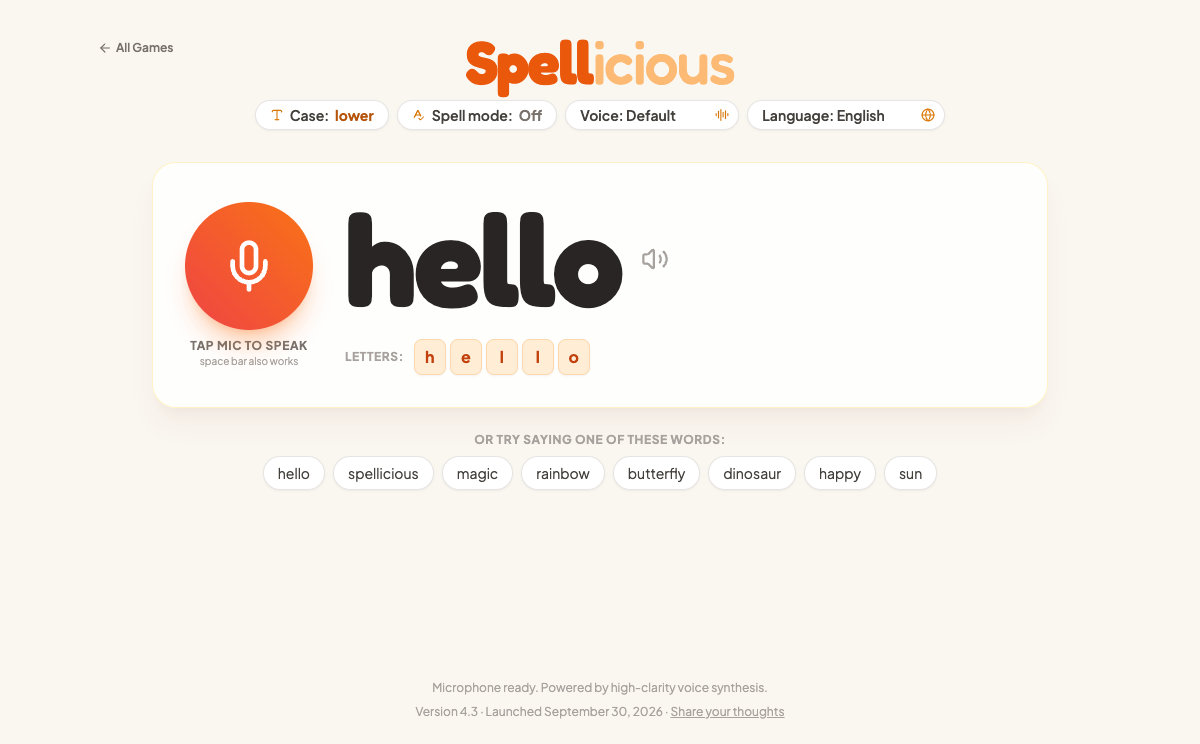
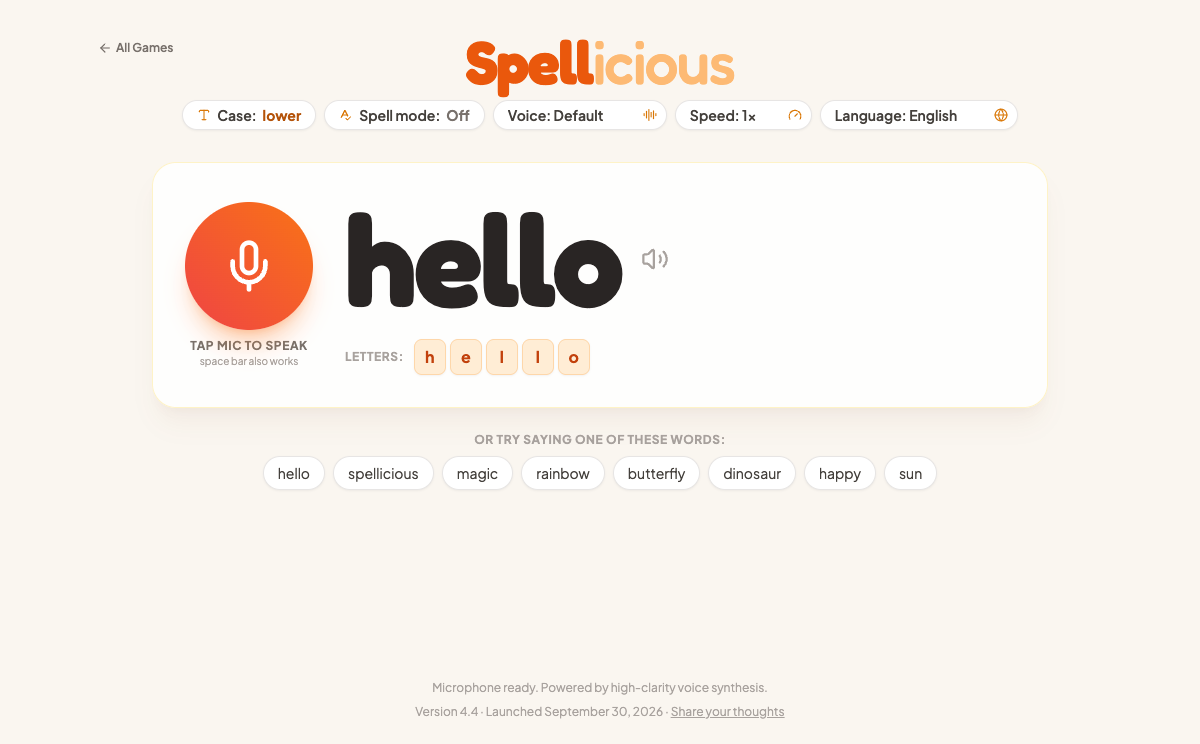
Add speech speed selector

Changed region(s): [[0.185, 0.1237, 0.8017, 0.1855]]

diff --git a/spellicious/index.html b/spellicious/index.html
@@ -93,6 +93,22 @@
                     <i data-lucide="audio-lines" class="w-3.5 h-3.5 text-amber-600 absolute right-2.5 top-1/2 -translate-y-1/2 pointer-events-none"></i>
                 </div>
 
+                <!-- Speech Speed Selector -->
+                <div class="relative inline-block">
+                    <select id="speedSelect" onchange="onSpeedChange()" class="appearance-none bg-white px-3.5 py-1 pr-7 rounded-full border border-stone-200 shadow-sm text-xs sm:text-sm font-semibold text-stone-700 hover:border-amber-400 focus:outline-none focus:ring-2 focus:ring-amber-500 cursor-pointer">
+                        <option value="0.5">Speed: 0.5x</option>
+                        <option value="0.75">Speed: 0.75x</option>
+                        <option value="1" selected>Speed: 1x</option>
+                        <option value="1.5">Speed: 1.5x</option>
+                        <option value="2">Speed: 2x</option>
+                        <option value="3">Speed: 3x</option>
+                        <option value="4">Speed: 4x</option>
+                        <option value="5">Speed: 5x</option>
+                        <option value="10">Speed: 10x</option>
+                    </select>
+                    <i data-lucide="gauge" class="w-3.5 h-3.5 text-amber-600 absolute right-2.5 top-1/2 -translate-y-1/2 pointer-events-none"></i>
+                </div>
+
                 <!-- Language Selector Dropdown -->
                 <div class="relative inline-block">
                     <select id="langSelect" onchange="onLanguageChange()" class="appearance-none bg-white px-3.5 py-1 pr-7 rounded-full border border-stone-200 shadow-sm text-xs sm:text-sm font-semibold text-stone-700 hover:border-amber-400 focus:outline-none focus:ring-2 focus:ring-amber-500 cursor-pointer">
@@ -175,7 +191,7 @@
     <!-- Footer Status -->
     <footer class="w-full max-w-4xl mx-auto mt-auto text-center text-xs text-stone-400 pt-4">
         <p id="statusText">Microphone ready. Powered by high-clarity voice synthesis.</p>
-        <p class="mt-2">Version 4.3 · Launched <time datetime="2026-09-30">September 30, 2026</time> · <a class="underline" href="../feedback/?game=spellicious&amp;v=4.3">Share your thoughts</a></p>
+        <p class="mt-2">Version 4.4 · Launched <time datetime="2026-09-30">September 30, 2026</time> · <a class="underline" href="../feedback/?game=spellicious&amp;v=4.4">Share your thoughts</a></p>
     </footer>
 
     <script>
@@ -183,6 +199,7 @@
         let currentWord = "hello";
         let currentLang = "en-US";
         let currentVoiceStyle = "default";
+        let speechSpeed = 1;
         let isCaseUpper = false;
         let isSpellMode = false;
         let isListening = false;
@@ -532,7 +549,7 @@
 
         function applyVoiceStyle(utterance) {
             const style = voiceStyles[currentVoiceStyle] || voiceStyles.default;
-            utterance.rate = style.rate;
+            utterance.rate = Math.min(10, style.rate * speechSpeed);
             utterance.pitch = style.pitch;
             utterance.volume = style.volume;
         }
@@ -547,6 +564,11 @@
 
         function onVoiceStyleChange() {
             currentVoiceStyle = document.getElementById('voiceStyleSelect').value;
+            speakCurrentText();
+        }
+
+        function onSpeedChange() {
+            speechSpeed = Number(document.getElementById('speedSelect').value) || 1;
             speakCurrentText();
         }
 

diff --git a/index.html b/index.html
@@ -137,11 +137,11 @@ footer { border-top: 1px solid var(--line); padding-top: 20px; color: var(--ink-
       </div>
     </article>
     <article class="game">
-      <a class="cover" href="spellicious/?v=4.3&amp;refresh=20260930-5" aria-label="Play Spellicious"><img src="spellicious/cover.png?v=4.3&amp;refresh=20260930-5" alt="A warm, cream-colored Spellicious game with a microphone and giant letters" width="1200" height="744"></a>
+      <a class="cover" href="spellicious/?v=4.4&amp;refresh=20260930-6" aria-label="Play Spellicious"><img src="spellicious/cover.png?v=4.4&amp;refresh=20260930-6" alt="A warm, cream-colored Spellicious game with a microphone and giant letters" width="1200" height="744"></a>
       <div class="info">
         <h2>Spellicious</h2>
-        <p class="version"><b>Version 4.3</b> · Launched <time datetime="2026-09-30">September 30, 2026</time></p>
-        <p>Say a word and see it appear in giant letters. The spoken word highlights in orange, and Spell mode highlights each letter or number as it is spoken. Numbers like 10 say “ten,” while 111 says “one one one.” Choose Default, Robot, Chipmunk, Storyteller, or Slow Motion voices. Tap the mic or press the space bar to start or interrupt speech.</p>
+        <p class="version"><b>Version 4.4</b> · Launched <time datetime="2026-09-30">September 30, 2026</time></p>
+        <p>Say a word and see it appear in giant letters. The spoken word highlights in orange, and Spell mode highlights each letter or number as it is spoken. Numbers like 10 say “ten,” while 111 says “one one one.” Choose Default, Robot, Chipmunk, Storyteller, or Slow Motion voices, plus speeds from 0.5x to 10x. Tap the mic or press the space bar to start or interrupt speech.</p>
         <ul class="tags">
           <li>Phonics</li><li>Reading</li><li>Speech</li><li>Syllables</li>
         </ul>
@@ -150,7 +150,7 @@ footer { border-top: 1px solid var(--line); padding-top: 20px; color: var(--ink-
           <li><b>Progress</b> nothing saved — just say a word</li>
           <li><b>Sound</b> on (mic and spoken words)</li>
         </ul>
-        <a class="play" href="spellicious/?v=4.3&amp;refresh=20260930-5">Play
+        <a class="play" href="spellicious/?v=4.4&amp;refresh=20260930-6">Play
           <svg viewBox="0 0 24 24" fill="currentColor" aria-hidden="true"><path d="M7 4.5v15a1 1 0 0 0 1.5.86l12.5-7.5a1 1 0 0 0 0-1.72L8.5 3.64A1 1 0 0 0 7 4.5Z"/></svg>
         </a>
       </div>

diff --git a/versions/index.html b/versions/index.html
@@ -42,6 +42,7 @@
   <h2>Spellicious</h2>
   <table>
     <tr><th>Version</th><th>Released</th><th>What was in it</th></tr>
+    <tr><td><a href="spellicious/4.4/">4.4 — Speech speed control</a></td><td>Sep 30, 2026</td><td>Adds a compact Speed selector with 0.5x, 0.75x, 1x, 1.5x, 2x, 3x, 4x, 5x, and 10x options.</td></tr>
     <tr><td><a href="spellicious/4.3/">4.3 — Reliable spacebar mic</a></td><td>Sep 30, 2026</td><td>Space now overrides selector/button focus, stops speech and highlights, and opens the microphone regardless of the selected settings.</td></tr>
     <tr><td><a href="spellicious/4.2/">4.2 — Full display highlighting</a></td><td>Sep 30, 2026</td><td>Synchronizes the large display with the lower tiles: spoken letters, numbers, and words now change color in both places.</td></tr>
     <tr><td><a href="spellicious/4.1/">4.1 — Phrase highlighting</a></td><td>Sep 30, 2026</td><td>Highlights each letter or number tile during spelling and highlights each word separately when speaking a phrase.</td></tr>

diff --git a/spellicious/HANDOFF.md b/spellicious/HANDOFF.md
@@ -1,8 +1,9 @@
 # Spellicious — Handoff Note
 
-## Update — Version 4.3
+## Update — Version 4.4
 
-- **Live:** Spellicious 4.3 is the current game at /spellicious/.
+- **Live:** Spellicious 4.4 is the current game at /spellicious/.
+- **Speed:** A compact selector offers 0.5x, 0.75x, 1x, 1.5x, 2x, 3x, 4x, 5x, and 10x speech speed; 1x is the default.
 - **Spacebar:** Space overrides selector/button focus, cancels speech and highlights, and opens the microphone regardless of settings.
 - **Highlighting:** Spell mode highlights each letter/number in both the large display and lower tiles; regular multi-word phrases highlight one large word at a time.
 - **Numbers:** Short numbers speak naturally (10 becomes “ten”); longer digit strings remain isolated.
@@ -35,9 +36,9 @@
 - Current page: spellicious/index.html
 - Current URL: https://magicmakersfamily.github.io/games/spellicious/
 - Compatibility redirect: speller/index.html → ../spellicious/
-- Current version: 4.3
+- Current version: 4.4
 - Launch date: 2026-09-30
-- Release tag: spellicious-v4.3
-- Frozen archive: versions/spellicious/4.3/
+- Release tag: spellicious-v4.4
+- Frozen archive: versions/spellicious/4.4/
 
 Before future releases, update the shelf card, README table, feedback game map, versions/index.html, and the frozen release archive. Render spellicious/cover.png, run a browser smoke check, commit, tag, push, and verify the public URL.

diff --git a/README.md b/README.md
@@ -42,7 +42,7 @@ tools/              freeze-version.sh: freeze a tagged release into versions/
 | James’s Nature Aquarium | `aquarium/` | 3.4 | 2026-09-24 |
 | Mid-Autumn Mayhem | `mid-autumn/` | 1.7 | 2026-09-25 |
 | Blow Up (beta) | `blow-up/` | 1.4 | 2026-09-27 |
-| Spellicious | `spellicious/` | 4.3 | 2026-09-30 |
+| Spellicious | `spellicious/` | 4.4 | 2026-09-30 |
 
 Past versions stay playable at https://magicmakersfamily.github.io/games/versions/ (for
 grown-ups; each keeps its own saved games). Every release is also a git tag (`blow-up-v1.3`, …).
